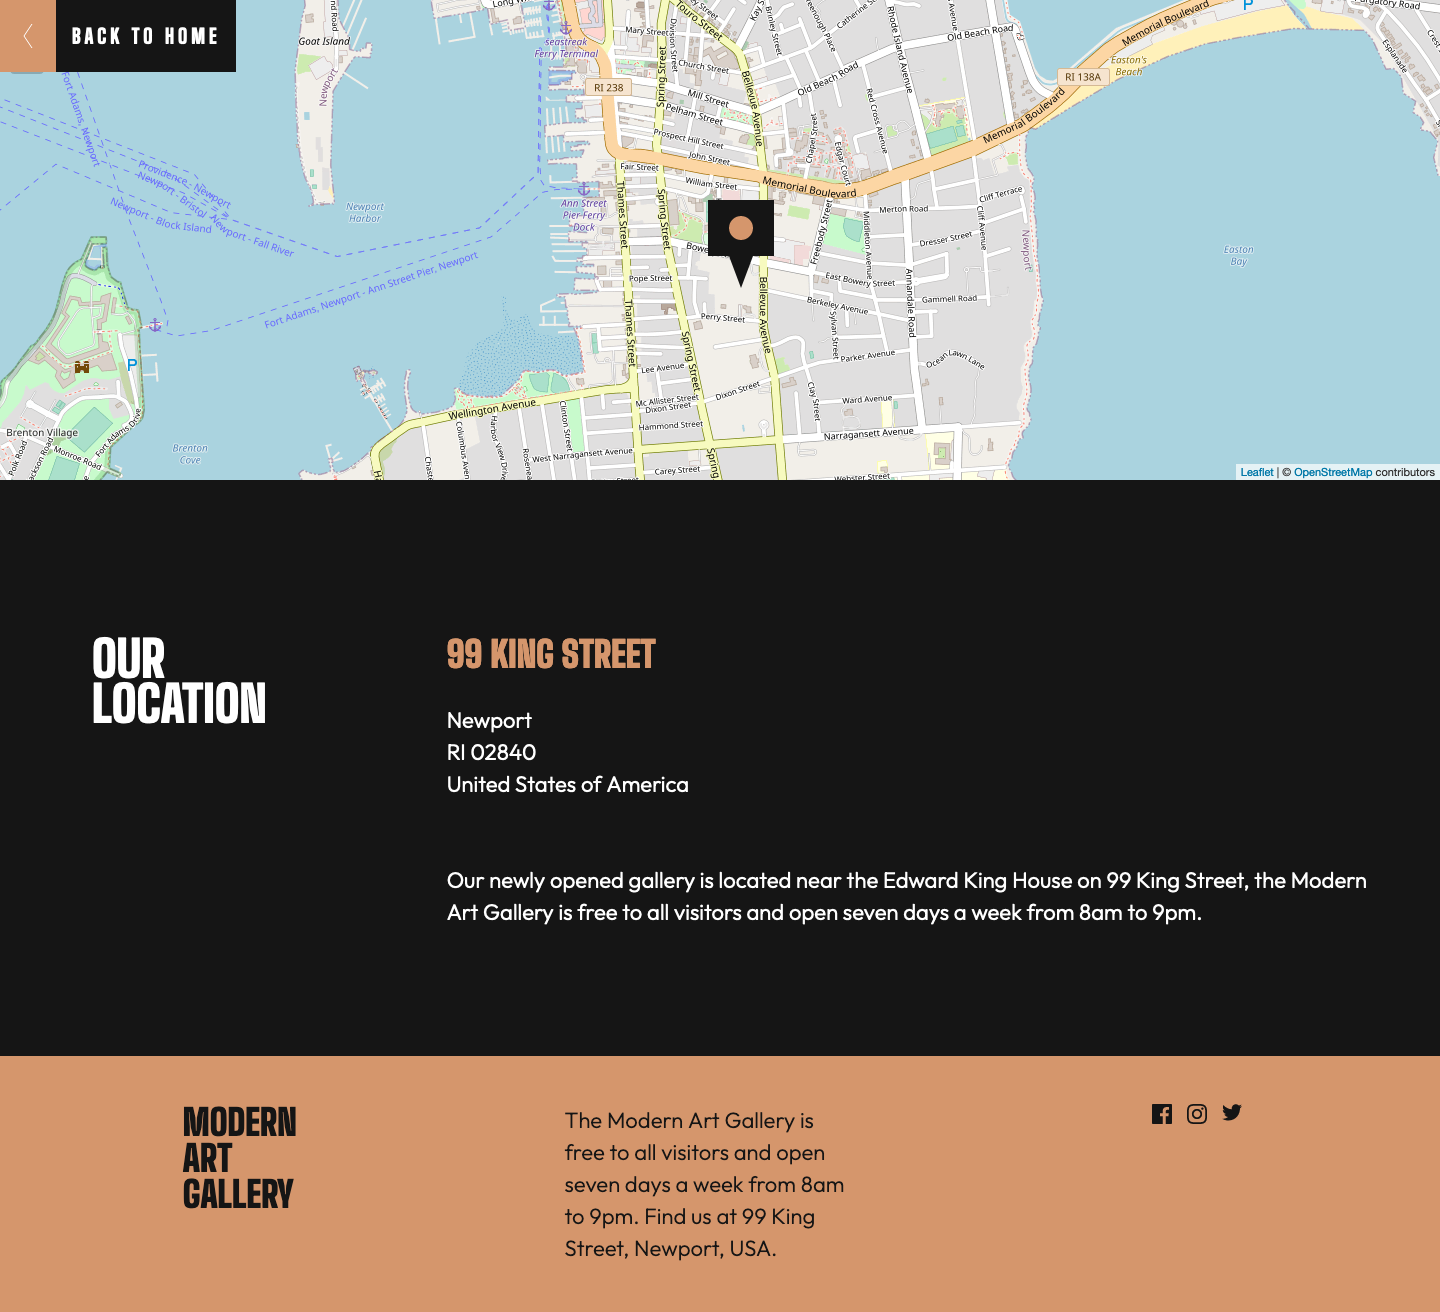
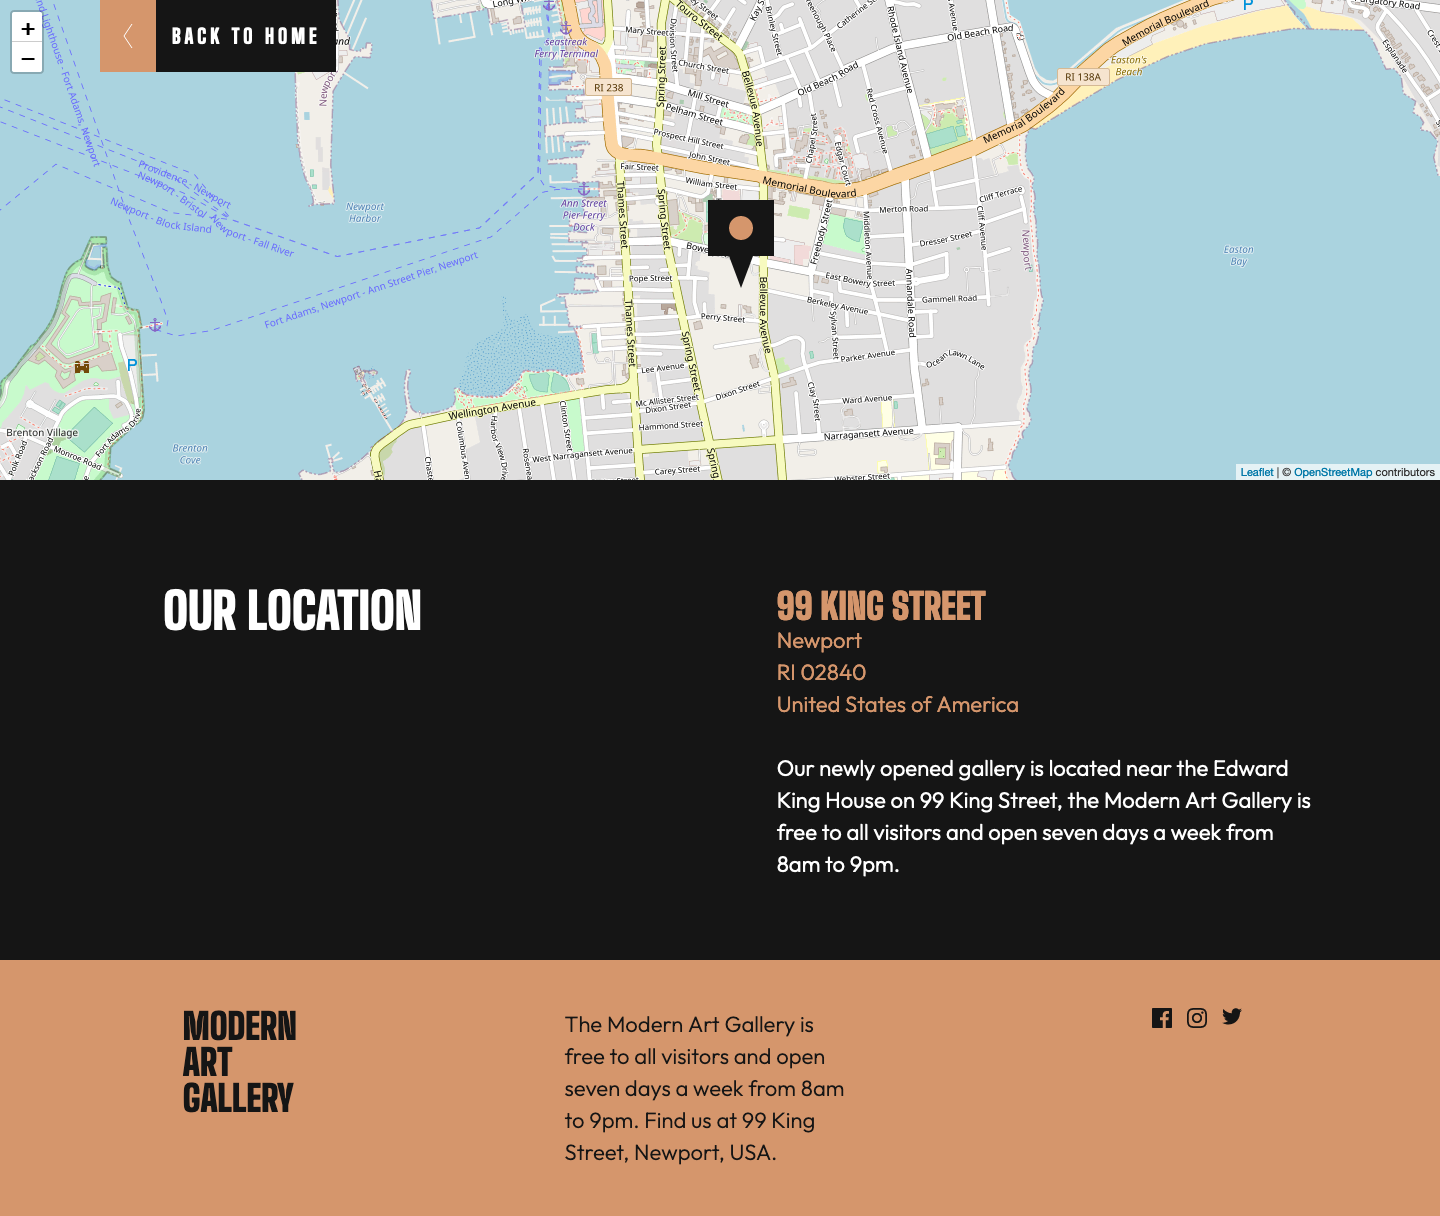
updated location page styles

diff --git a/my-app/src/component/Location.js b/my-app/src/component/Location.js
@@ -9,18 +9,16 @@ const Location = () => {
       <GoTolocation />
       <LocationMap />
       <div className="location__content">
-        <article className='location__content'>
-          <h2 className='location__sub-heading'>Our Location</h2>  
-          <div className='location__address'>
-            <h3 className='location__street'>99 King Street</h3>
-            <p>Newport<br/> 
-            RI 02840<br/> 
-            United States of America</p>
-            <p>  Our newly opened gallery is located near the Edward King House on 99 King 
-                Street, the Modern Art Gallery is free to all visitors and open seven days 
-                a week from 8am to 9pm.</p>
-          </div>
-        </article>
+        <h2 className='location__sub-heading'>Our Location</h2>  
+        <div className='location__address'>
+          <h3 className='location__street'>99 King Street</h3>
+          <p className='location__street'>Newport<br/> 
+          RI 02840<br/> 
+          United States of America</p>
+          <p className='location__commentry'>  Our newly opened gallery is located near the Edward King House on 99 King 
+              Street, the Modern Art Gallery is free to all visitors and open seven days 
+              a week from 8am to 9pm.</p>
+        </div>
       </div>
       <footer className="location__footer">
         <h3 className='location__footer-heading'>Modern Art Gallery</h3>

diff --git a/my-app/src/styles/04-components/_location.scss b/my-app/src/styles/04-components/_location.scss
@@ -5,6 +5,7 @@
     color: $base-color-white;
     @include breakpoint(lg) {
       display: flex;
+      justify-content: space-around;
     }
   }
 
@@ -26,7 +27,7 @@
   &__btn {
     @include breakpoint(xl) {
       position: absolute;
-      left: 50px;
+      left: 100px;
     }
   }
 
@@ -56,6 +57,12 @@
     @include breakpoint(lg) {
      padding: 0;
     }  
+  }
+
+  &__commentry {
+    @include breakpoint(lg) {
+      max-width: 540px;
+     } 
   }
 
   &__footer {

diff --git a/my-app/src/component/HomeButton.js b/my-app/src/component/HomeButton.js
@@ -9,7 +9,7 @@ const GoToHomePage = props => {
   }
 
   return (
-    <div>
+    <div className='location__btn'>
       <div className='location__icon'>
         <svg className='location__svg' width="10" height="24" xmlns="http://www.w3.org/2000/svg"onClick={handleClickHomePage}><path stroke="#FFF" fill="none" d="M9 24 1 12 9 0"/></svg>  
       </div>
